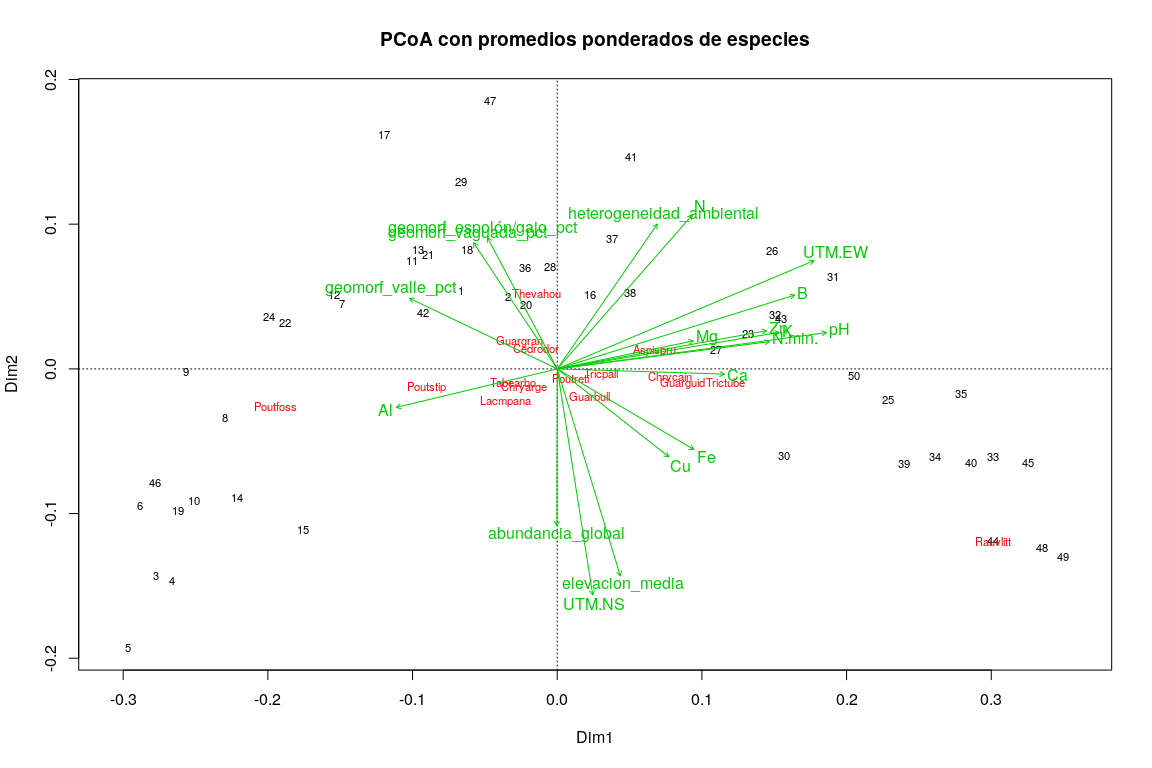
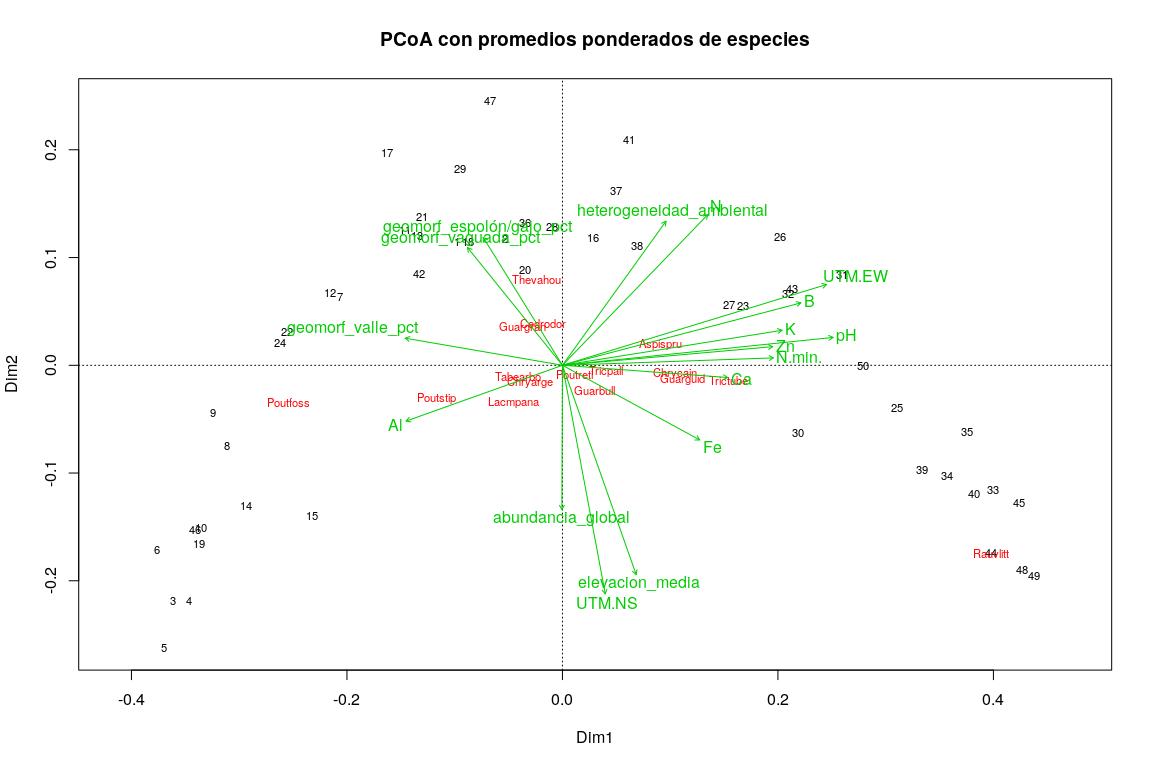
Simple ordination updated

diff --git a/to_tecnicas_de_ordenacion_1_ordenacion_no_restringida_PCA_CA_MCA.md b/to_tecnicas_de_ordenacion_1_ordenacion_no_restringida_PCA_CA_MCA.md
@@ -821,11 +821,11 @@ biplot(
     ## B       0.86077 -0.50900 0.6025  0.001 ***
     ## Ca      0.65508 -0.75556 0.5406  0.001 ***
     ## Cu      0.49245 -0.87034 0.3258  0.001 ***
-    ## Fe      0.73288 -0.68036 0.1713  0.010 ** 
+    ## Fe      0.73288 -0.68036 0.1713  0.014 *  
     ## K       0.78293 -0.62211 0.5754  0.001 ***
     ## Mg      0.65459 -0.75598 0.4447  0.001 ***
-    ## Mn      0.36991 -0.92907 0.2694  0.002 ** 
-    ## P       0.42924  0.90319 0.1753  0.010 ** 
+    ## Mn      0.36991 -0.92907 0.2694  0.001 ***
+    ## P       0.42924  0.90319 0.1753  0.016 *  
     ## Zn      0.78392 -0.62087 0.5866  0.001 ***
     ## N       0.93046 -0.36638 0.3305  0.001 ***
     ## N.min.  0.88037 -0.47429 0.4024  0.001 ***
@@ -857,39 +857,39 @@ env_num <- bci_env_grid %>%
     ## ***VECTORS
     ## 
     ##                                 PC1      PC2     r2 Pr(>r)    
-    ## heterogeneidad_ambiental    0.86198  0.50694 0.1362  0.036 *  
+    ## heterogeneidad_ambiental    0.86198  0.50694 0.1362  0.033 *  
     ## UTM.EW                      0.91300 -0.40797 0.6577  0.001 ***
-    ## UTM.NS                     -0.11834  0.99297 0.0687  0.187    
-    ## geomorf_llanura_pct         0.61758  0.78651 0.0167  0.670    
-    ## geomorf_pico_pct           -0.44921  0.89343 0.0789  0.158    
-    ## geomorf_interfluvio_pct    -0.87619 -0.48197 0.0037  0.909    
-    ## geomorf_hombrera_pct       -0.13181  0.99128 0.0728  0.181    
-    ## geomorf_espolón/gajo_pct   -0.59521 -0.80357 0.0553  0.278    
-    ## geomorf_vertiente_pct      -0.19817 -0.98017 0.0077  0.831    
-    ## geomorf_vaguada_pct        -0.63948 -0.76881 0.0933  0.100 .  
-    ## geomorf_piedemonte_pct      0.86414  0.50325 0.0384  0.392    
-    ## geomorf_valle_pct          -0.99402  0.10922 0.0588  0.257    
-    ## geomorf_sima_pct           -0.99821  0.05982 0.0059  0.868    
+    ## UTM.NS                     -0.11834  0.99297 0.0687  0.199    
+    ## geomorf_llanura_pct         0.61758  0.78651 0.0167  0.667    
+    ## geomorf_pico_pct           -0.44921  0.89343 0.0789  0.152    
+    ## geomorf_interfluvio_pct    -0.87619 -0.48197 0.0037  0.917    
+    ## geomorf_hombrera_pct       -0.13181  0.99128 0.0728  0.183    
+    ## geomorf_espolón/gajo_pct   -0.59521 -0.80357 0.0553  0.268    
+    ## geomorf_vertiente_pct      -0.19817 -0.98017 0.0077  0.828    
+    ## geomorf_vaguada_pct        -0.63948 -0.76881 0.0933  0.117    
+    ## geomorf_piedemonte_pct      0.86414  0.50325 0.0384  0.405    
+    ## geomorf_valle_pct          -0.99402  0.10922 0.0588  0.248    
+    ## geomorf_sima_pct           -0.99821  0.05982 0.0059  0.865    
     ## Al                         -0.81128  0.58466 0.3031  0.001 ***
     ## B                           0.86077 -0.50900 0.6025  0.001 ***
     ## Ca                          0.65508 -0.75556 0.5406  0.001 ***
     ## Cu                          0.49245 -0.87034 0.3258  0.001 ***
-    ## Fe                          0.73288 -0.68036 0.1713  0.012 *  
+    ## Fe                          0.73288 -0.68036 0.1713  0.008 ** 
     ## K                           0.78293 -0.62211 0.5754  0.001 ***
     ## Mg                          0.65459 -0.75598 0.4447  0.001 ***
-    ## Mn                          0.36991 -0.92907 0.2694  0.003 ** 
-    ## P                           0.42924  0.90319 0.1753  0.014 *  
+    ## Mn                          0.36991 -0.92907 0.2694  0.001 ***
+    ## P                           0.42924  0.90319 0.1753  0.012 *  
     ## Zn                          0.78392 -0.62087 0.5866  0.001 ***
     ## N                           0.93046 -0.36638 0.3305  0.001 ***
     ## N.min.                      0.88037 -0.47429 0.4024  0.001 ***
     ## pH                          0.94949 -0.31378 0.6551  0.001 ***
-    ## elevacion_media             0.36513  0.93096 0.0949  0.096 .  
-    ## pendiente_media            -0.98456  0.17506 0.0052  0.896    
-    ## orientacion_media           0.73513 -0.67792 0.0546  0.251    
-    ## curvatura_perfil_media     -0.99920 -0.03994 0.0032  0.918    
-    ## curvatura_tangencial_media  0.90401  0.42752 0.0379  0.408    
-    ## abundancia_global          -0.93002 -0.36752 0.0460  0.340    
-    ## riqueza_global             -0.99599 -0.08942 0.1506  0.025 *  
+    ## elevacion_media             0.36513  0.93096 0.0949  0.101    
+    ## pendiente_media            -0.98456  0.17506 0.0052  0.875    
+    ## orientacion_media           0.73513 -0.67792 0.0546  0.274    
+    ## curvatura_perfil_media     -0.99920 -0.03994 0.0032  0.941    
+    ## curvatura_tangencial_media  0.90401  0.42752 0.0379  0.387    
+    ## abundancia_global          -0.93002 -0.36752 0.0460  0.317    
+    ## riqueza_global             -0.99599 -0.08942 0.1506  0.018 *  
     ## ---
     ## Signif. codes:  0 '***' 0.001 '**' 0.01 '*' 0.05 '.' 0.1 ' ' 1
     ## Permutation: free
@@ -1434,33 +1434,30 @@ distancias.
 
 ``` r
 mi_fam_d_bray <- vegdist(mi_fam, method = 'bray') # En realidad, 'bray' es la opción por defecto
-mi_fam_d_bray_pcoa <- cmdscale(mi_fam_d_bray, k = (nrow(mi_fam) - 1), eig = TRUE)
-```
-
-    ## Warning in cmdscale(mi_fam_d_bray, k = (nrow(mi_fam) - 1), eig = TRUE):
-    ## only 26 of the first 49 eigenvalues are > 0
-
-``` r
+mi_fam_d_bray_pcoa <- cmdscale(
+  mi_fam_d_bray,
+  k = (nrow(mi_fam) - 1),
+  add = T,
+  eig = TRUE)
 round(mi_fam_d_bray_pcoa$eig, 2)
 ```
 
-    ##  [1]  1.98  0.38  0.26  0.15  0.15  0.12  0.09  0.06  0.05  0.05  0.04
-    ## [12]  0.03  0.03  0.02  0.02  0.01  0.01  0.01  0.01  0.01  0.01  0.00
-    ## [23]  0.00  0.00  0.00  0.00  0.00  0.00  0.00  0.00  0.00 -0.01 -0.01
-    ## [34] -0.01 -0.01 -0.01 -0.01 -0.01 -0.01 -0.01 -0.02 -0.02 -0.02 -0.02
-    ## [45] -0.03 -0.03 -0.03 -0.03 -0.04 -0.05
+    ##  [1] 3.45 0.90 0.55 0.39 0.35 0.32 0.24 0.20 0.19 0.16 0.15 0.13 0.12 0.10
+    ## [15] 0.09 0.09 0.09 0.08 0.08 0.07 0.07 0.07 0.07 0.06 0.06 0.05 0.05 0.05
+    ## [29] 0.05 0.04 0.04 0.04 0.04 0.04 0.04 0.04 0.03 0.03 0.03 0.03 0.03 0.03
+    ## [43] 0.02 0.02 0.02 0.02 0.02 0.01 0.00 0.00
 
 ``` r
 round(sum(mi_fam_d_bray_pcoa$eig[mi_fam_d_bray_pcoa$eig<0]),2)
 ```
 
-    ## [1] -0.39
+    ## [1] 0
 
 ``` r
 round(sum(mi_fam_d_bray_pcoa$eig[mi_fam_d_bray_pcoa$eig>=0]),2)
 ```
 
-    ## [1] 3.5
+    ## [1] 8.87
 
 ``` r
 ordiplot(scores(mi_fam_d_bray_pcoa, choices = c(1, 2)),
@@ -1485,39 +1482,39 @@ text(
     ## ***VECTORS
     ## 
     ##                                Dim1     Dim2     r2 Pr(>r)    
-    ## heterogeneidad_ambiental    0.56866  0.82257 0.1916  0.008 ** 
-    ## UTM.EW                      0.92142  0.38857 0.4807  0.001 ***
-    ## UTM.NS                      0.15511 -0.98790 0.3240  0.001 ***
-    ## geomorf_llanura_pct         0.36045 -0.93278 0.0339  0.443    
-    ## geomorf_pico_pct           -0.93088  0.36534 0.0231  0.645    
-    ## geomorf_interfluvio_pct    -0.40558  0.91406 0.1062  0.071 .  
-    ## geomorf_hombrera_pct       -0.09763  0.99522 0.0067  0.855    
-    ## geomorf_espolón/gajo_pct   -0.46944  0.88296 0.1368  0.029 *  
-    ## geomorf_vertiente_pct       0.02529  0.99968 0.0019  0.955    
-    ## geomorf_vaguada_pct        -0.55283  0.83329 0.1418  0.023 *  
-    ## geomorf_piedemonte_pct      0.76407 -0.64513 0.0493  0.303    
-    ## geomorf_valle_pct          -0.90244  0.43081 0.1658  0.013 *  
-    ## geomorf_sima_pct           -0.99924 -0.03906 0.0339  0.453    
-    ## Al                         -0.97259 -0.23251 0.1696  0.016 *  
-    ## B                           0.95495  0.29676 0.3823  0.001 ***
-    ## Ca                          0.99951 -0.03145 0.1728  0.009 ** 
-    ## Cu                          0.78534 -0.61906 0.1249  0.043 *  
-    ## Fe                          0.86102 -0.50857 0.1556  0.014 *  
-    ## K                           0.98678  0.16205 0.3132  0.001 ***
-    ## Mg                          0.97955  0.20121 0.1195  0.036 *  
-    ## Mn                          0.52754 -0.84953 0.0433  0.362    
-    ## P                           0.51030  0.86000 0.0603  0.228    
-    ## Zn                          0.98379  0.17935 0.2799  0.001 ***
-    ## N                           0.65956  0.75165 0.2593  0.002 ** 
-    ## N.min.                      0.99185  0.12741 0.2832  0.001 ***
-    ## pH                          0.99103  0.13366 0.4567  0.001 ***
-    ## elevacion_media             0.29154 -0.95656 0.2900  0.001 ***
-    ## pendiente_media            -0.19631  0.98054 0.0354  0.457    
-    ## orientacion_media           0.48414  0.87499 0.0217  0.614    
-    ## curvatura_perfil_media     -0.96205 -0.27288 0.0048  0.898    
-    ## curvatura_tangencial_media  0.64233 -0.76643 0.0639  0.203    
-    ## abundancia_global          -0.00222 -1.00000 0.1525  0.023 *  
-    ## riqueza_global             -0.83579 -0.54905 0.0601  0.228    
+    ## heterogeneidad_ambiental    0.58373  0.81195 0.1978  0.014 *  
+    ## UTM.EW                      0.95627  0.29248 0.4791  0.001 ***
+    ## UTM.NS                      0.18427 -0.98288 0.3400  0.001 ***
+    ## geomorf_llanura_pct         0.35884 -0.93340 0.0439  0.375    
+    ## geomorf_pico_pct           -0.97236  0.23348 0.0239  0.662    
+    ## geomorf_interfluvio_pct    -0.51410  0.85773 0.0970  0.097 .  
+    ## geomorf_hombrera_pct       -0.12318  0.99238 0.0069  0.866    
+    ## geomorf_espolón/gajo_pct   -0.52667  0.85007 0.1421  0.033 *  
+    ## geomorf_vertiente_pct       0.00003  1.00000 0.0056  0.865    
+    ## geomorf_vaguada_pct        -0.62778  0.77839 0.1435  0.029 *  
+    ## geomorf_piedemonte_pct      0.95163 -0.30726 0.0472  0.329    
+    ## geomorf_valle_pct          -0.98551  0.16961 0.1598  0.013 *  
+    ## geomorf_sima_pct           -0.88548 -0.46468 0.0333  0.479    
+    ## Al                         -0.94187 -0.33598 0.1730  0.014 *  
+    ## B                           0.96742  0.25317 0.3816  0.001 ***
+    ## Ca                          0.99726 -0.07392 0.1723  0.012 *  
+    ## Cu                          0.87163 -0.49016 0.1172  0.066 .  
+    ## Fe                          0.87856 -0.47764 0.1534  0.022 *  
+    ## K                           0.98752  0.15748 0.3106  0.002 ** 
+    ## Mg                          0.99857  0.05354 0.1180  0.052 .  
+    ## Mn                          0.62755 -0.77858 0.0392  0.381    
+    ## P                           0.64624  0.76313 0.0571  0.262    
+    ## Zn                          0.99610  0.08828 0.2799  0.001 ***
+    ## N                           0.69428  0.71971 0.2753  0.003 ** 
+    ## N.min.                      0.99939  0.03500 0.2799  0.001 ***
+    ## pH                          0.99474  0.10248 0.4651  0.001 ***
+    ## elevacion_media             0.33226 -0.94319 0.3092  0.002 ** 
+    ## pendiente_media            -0.22538  0.97427 0.0425  0.356    
+    ## orientacion_media           0.48992  0.87176 0.0209  0.573    
+    ## curvatura_perfil_media     -0.88516 -0.46528 0.0043  0.909    
+    ## curvatura_tangencial_media  0.79566 -0.60575 0.0593  0.242    
+    ## abundancia_global          -0.00374 -0.99999 0.1308  0.033 *  
+    ## riqueza_global             -0.93889 -0.34421 0.0608  0.226    
     ## ---
     ## Signif. codes:  0 '***' 0.001 '**' 0.01 '*' 0.05 '.' 0.1 ' ' 1
     ## Permutation: free
